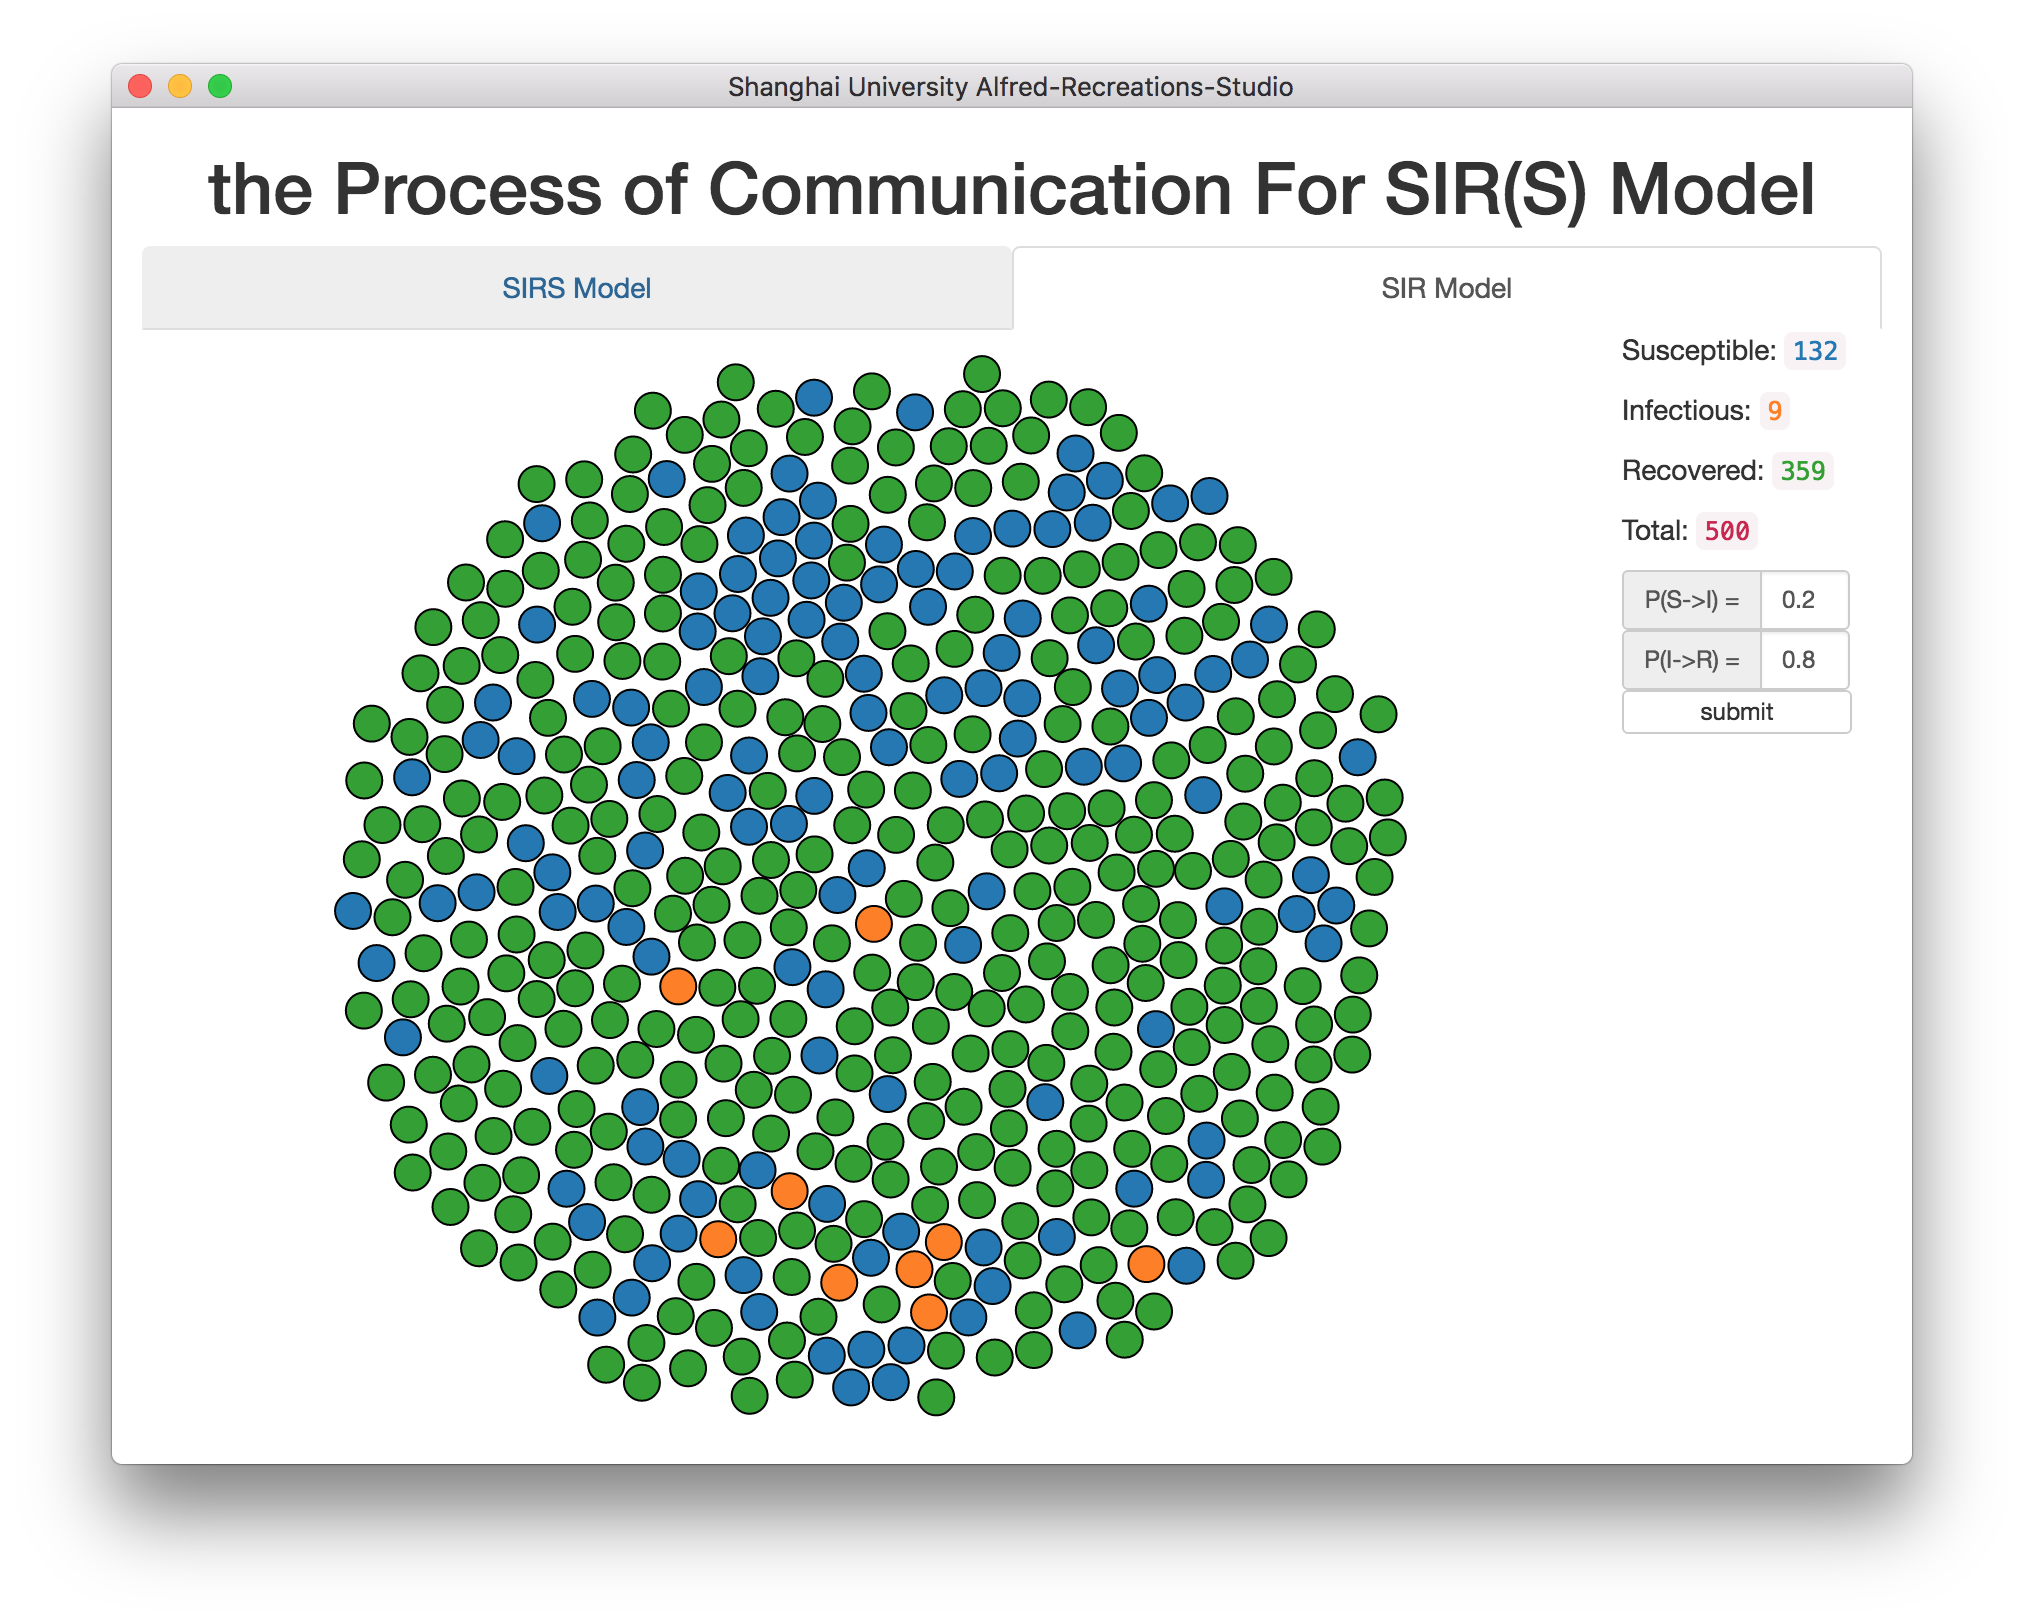
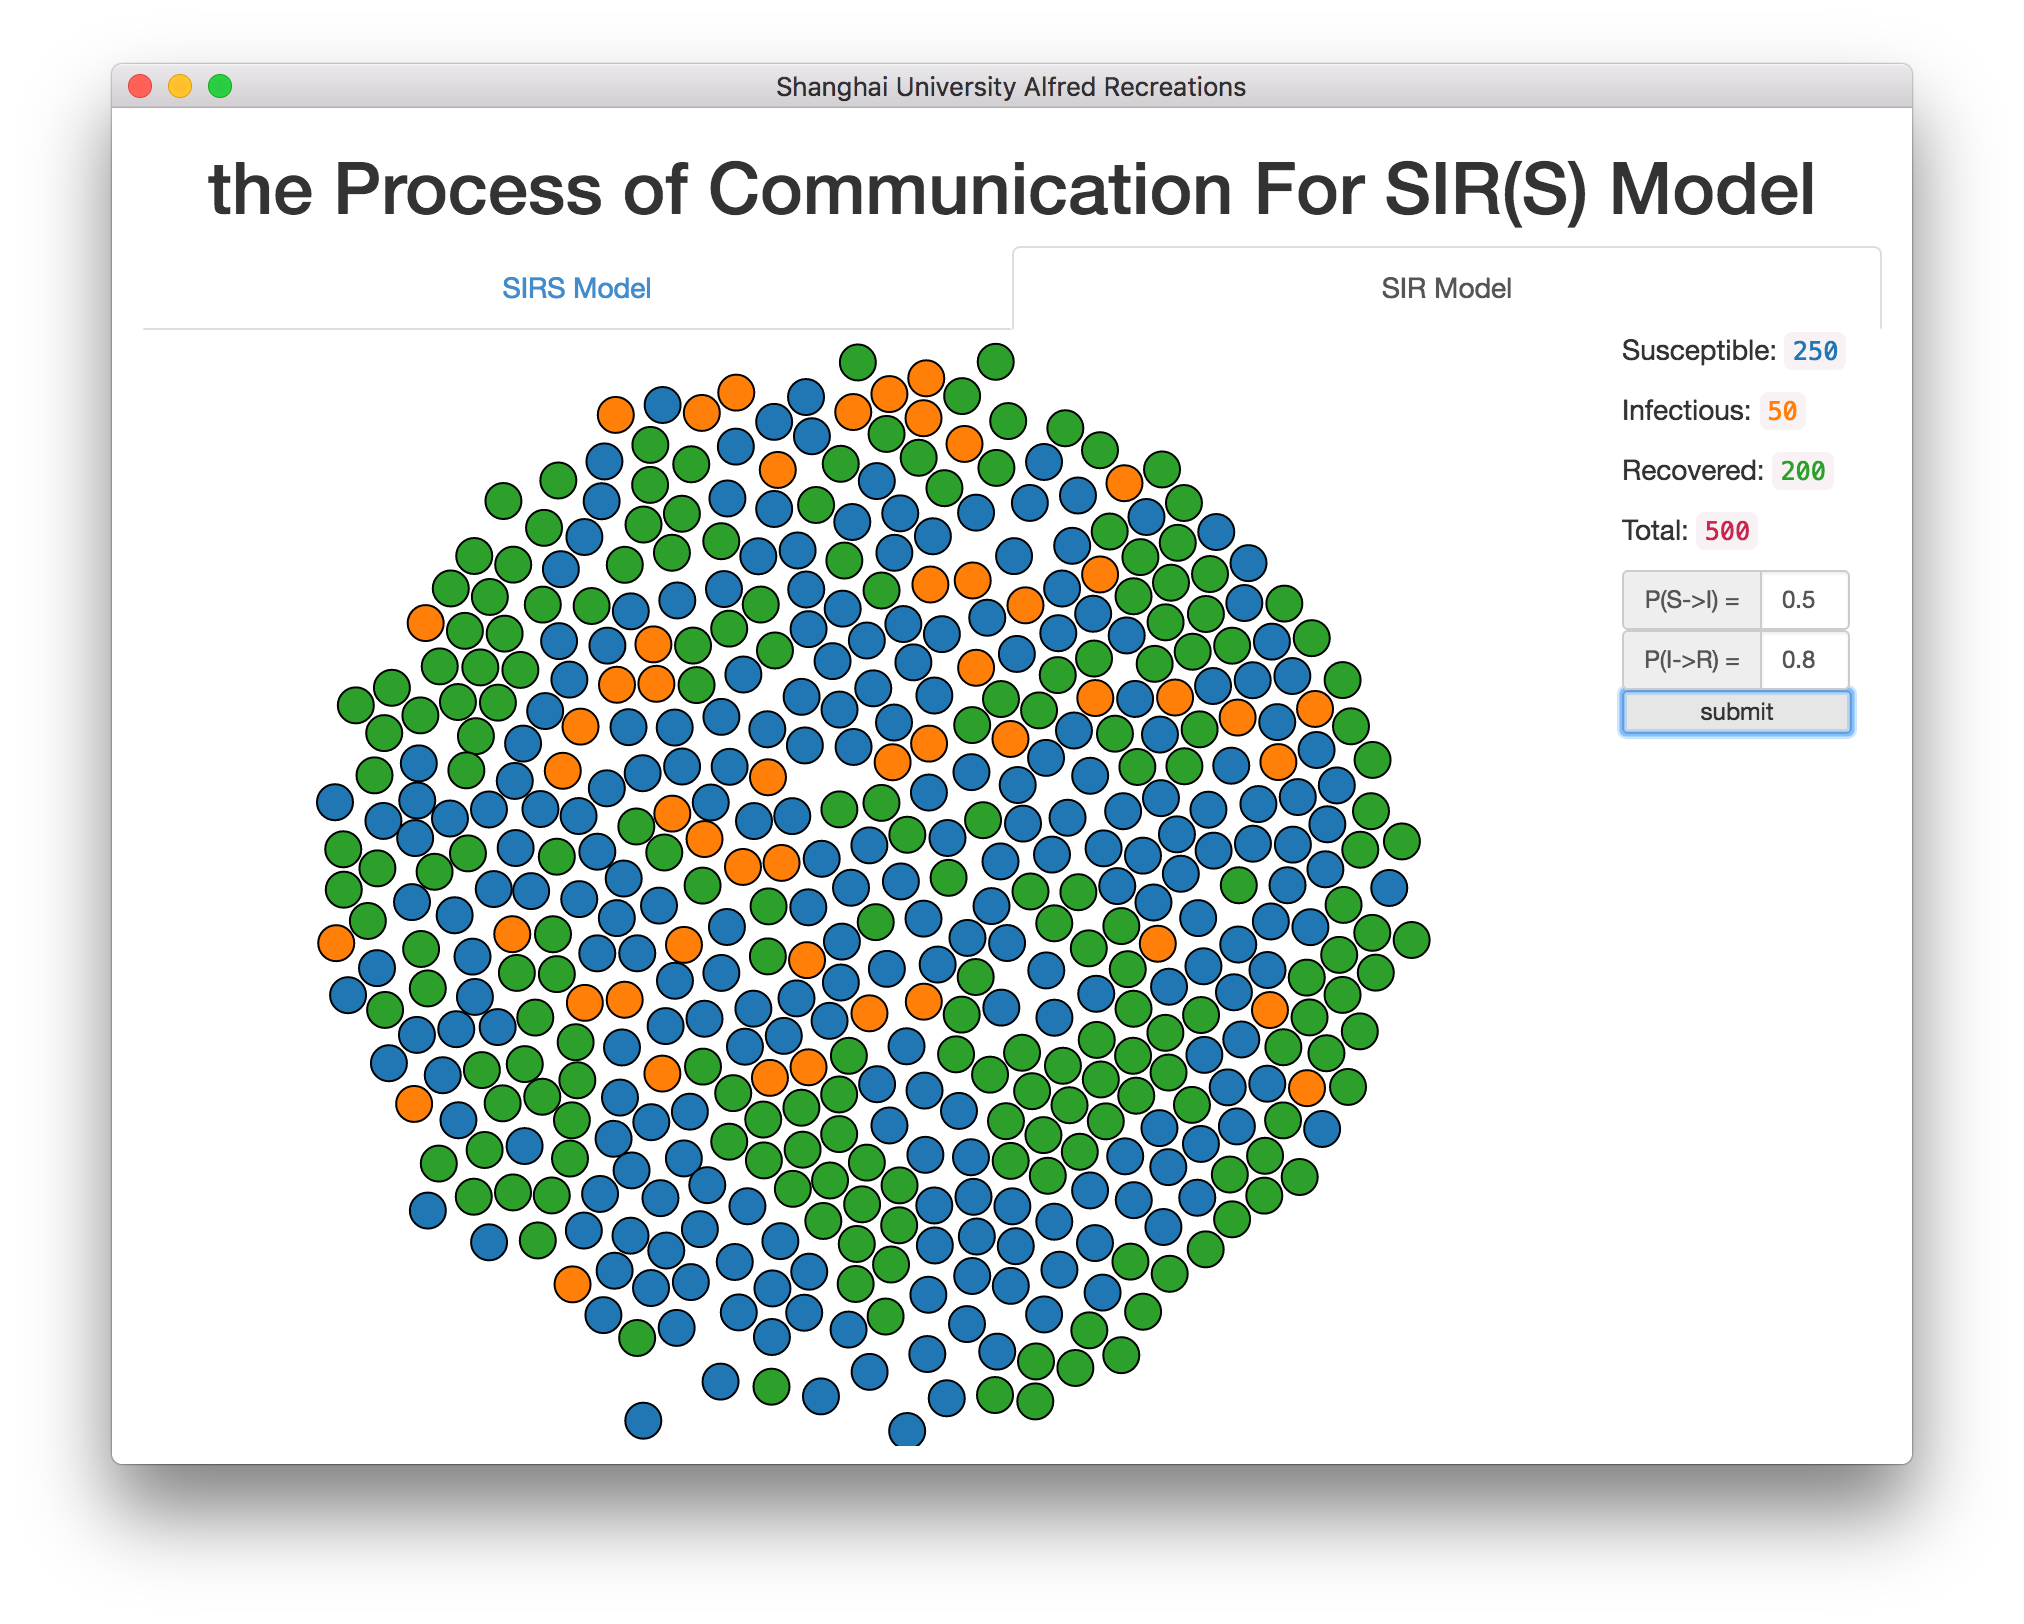
v2.0

diff --git a/main.js b/main.js
@@ -3,11 +3,11 @@ const {app, BrowserWindow} = require('electron')
 
 let win
 
-function createWindow(window_width = 900, window_height = 700) {
+function createWindow(window_width = 900, window_height = 800) {
   win = new BrowserWindow({
     width: window_width, height: window_height,
     center: true,
-    title: 'Shanghai University Alfred-Recreations-Studio'
+    title: 'Shanghai University Alfred Recreations'
   })
   win.loadURL('file://' + __dirname + '/view/sirs.html')
   //win.openDevTools()
